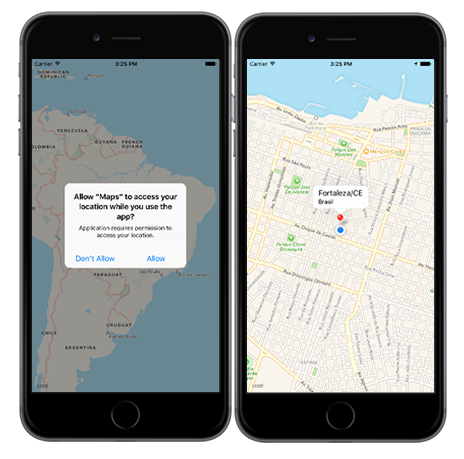
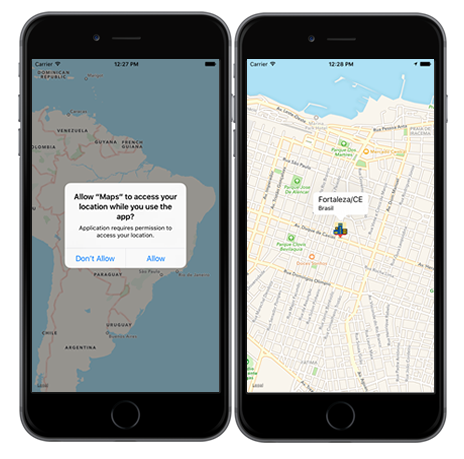
Custom map pin

diff --git a/Maps/MapController.swift b/Maps/MapController.swift
@@ -49,11 +49,31 @@ class MapController: UIViewController, MKMapViewDelegate, CLLocationManagerDeleg
         locationManager.stopUpdatingLocation()
     }
     
+    // MKMapViewDelegate - Custom map pin
+    func mapView(mapView: MKMapView, viewForAnnotation annotation: MKAnnotation) -> MKAnnotationView?{
+        
+        let annotationReuseId = "Place"
+        
+        var anView = mapView.dequeueReusableAnnotationViewWithIdentifier(annotationReuseId)
+        
+        if anView == nil {
+            anView = MKAnnotationView(annotation: annotation, reuseIdentifier: annotationReuseId)
+        } else {
+            anView!.annotation = annotation
+        }
+        
+        anView!.image = UIImage(named: "MapPin")
+        anView!.backgroundColor = UIColor.clearColor()
+        anView!.canShowCallout = true
+        return anView
+    }
+    
+    // CLLocationManagerDelegate
     func locationManager(manager: CLLocationManager, didUpdateLocations locations: [CLLocation]){
         
         let location = locations.last
         let center = CLLocationCoordinate2DMake(location!.coordinate.latitude, location!.coordinate.longitude)
-        
+                
         let region = MKCoordinateRegion(center: center, span: MKCoordinateSpan(latitudeDelta: 0.02, longitudeDelta: 0.02))
         
         configureMapView(location!.coordinate, region: region)
